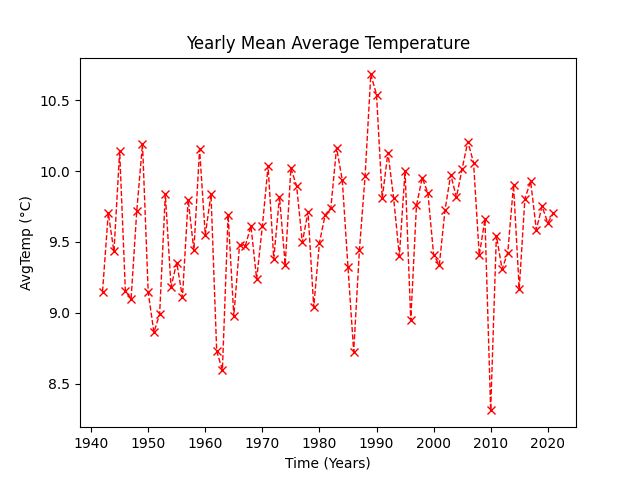
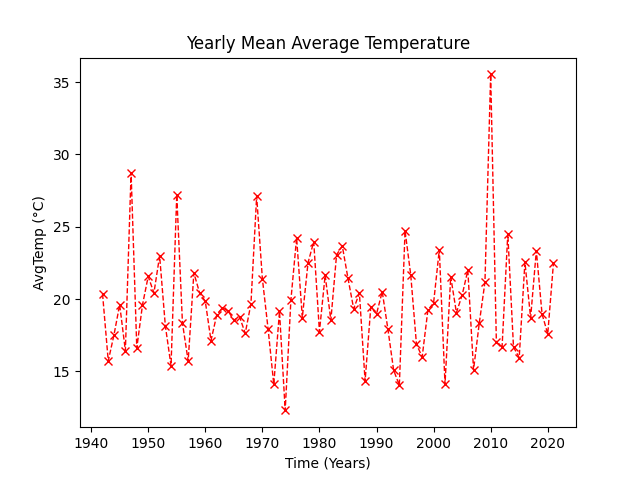
Read Time Series

diff --git a/DublinAirportAvgTempLinearAnalysis.py b/DublinAirportAvgTempLinearAnalysis.py
@@ -6,6 +6,7 @@ import pmdarima as pm
 import datetime as dt
 import pandas as pd
 import numpy as np
+import statistics
 import warnings
 import csv
 import os
@@ -26,121 +27,173 @@ savepath = 'data/'
 data = data.drop("Unnamed: 0", axis=1)
 print(data)
 dates = data.date
-print(dates)
 date_axis = [d.to_pydatetime() for d in dates]
 
 # Define Average Temperature Time Series.
 x = data.AvgTemp.values
-x_df = pd.DataFrame({data.AvgTemp.name: x})
-
-# Plot Average Temperature.
-lf.plot_timeseries(x, 'AvgTemp (°C)', 'Average Temperature', 'data/', date_axis)
-plt.show()
-
-# Average Temperature Histogram.
-lf.plot_histogram(x, 'Frequency', 'Average Temperature Histogram', 'data/')
-plt.show()
-
-# Plot Zoomed Average Temperature.
-lf.plot_timeseries(x, 'AvgTemp (°C)', 'Average Temperature (1998-2014)', 'data/', date_axis, zoomx=True)
-plt.show()
-
-# Plot Yearly Mean Average Temperature.
-x_year = []
-years = 80
-days = 365
-for year in range(0, years):
-    k = 0
-    for day in range(1, days + 1):
-        k = k + x[year * days + day]
-    x_year.append(k/days)
+# x_df = pd.DataFrame({data.AvgTemp.name: x})
+#
+# # Plot Average Temperature.
+# lf.plot_timeseries(x, 'AvgTemp (°C)', 'Average Temperature', 'data/', date_axis)
+# plt.show()
+#
+# # Average Temperature Histogram.
+# lf.plot_histogram(x, 'Frequency', 'Average Temperature Histogram', 'data/')
+# plt.show()
+#
+# # Plot Zoomed Average Temperature.
+# lf.plot_timeseries(x, 'AvgTemp (°C)', 'Average Temperature (1998-2014)', 'data/', date_axis, zoomx=True)
+# plt.show()
+#
+# # Plot Yearly Mean Average Temperature.
+# x_year = []
+# years = 80
+# days = 365
+# for year in range(0, years):
+#     k = 0
+#     for day in range(1, days + 1):
+#         k = k + x[year * days + day]
+#     x_year.append(k/days)
 dates_year = range(1942, 2022)
-plt.plot(dates_year, x_year, color='red', marker='x', linestyle='--', linewidth=1)
-plt.xlabel('Time (Years)')
-plt.ylabel('AvgTemp (°C)')
-title = 'Yearly Mean Average Temperature'
-plt.title(title, x=0.5, y=1.0)
-plt.savefig(f'{savepath}/{title}.png')
-plt.show()
-
-# Average Temperature Autocorrelation.
-plot_acf(x, zero=False)
-title = 'Autocorrelation'
-plt.title(title, x=0.5, y=1.0)
-plt.savefig(f'{savepath}/{title}.png')
-plt.show()
-
-# Remove Trend.
-# Polynomial Fit.
-p = 40
-pol = lf.polynomial_fit(x, p=p)
-
-# Linear Breakpoint Fit.
-p1 = 1
-pol1 = []
-breakpoints = 160
-for i in range(0, 80 * 12 * 30, 180):
-    pol1[i:i + 180] = lf.polynomial_fit(x[i:i + 180], p=p1)
-
-# Plot Polynomial and Breakpoint Fit.
-plt.plot(pol)
-plt.plot(pol1)
-plt.plot(x, alpha=0.5)
-plt.xlim(15000, 18000)
-plt.legend([f'Polynomial ({p})', f'Breakpoint ({breakpoints})', 'Original'])
-title = f'Polynomial ({p}) and Breakpoint Fit ({breakpoints})'
-plt.title(title, x=0.5, y=1.0)
-plt.savefig(f'{savepath}/{title}.png')
-plt.show()
-
-# Plot Polynomial and Linear Breakpoint Detrends.
-plt.plot(x-pol, alpha=0.5)
-plt.plot(x[0:28800]-pol1, alpha=0.5)
-plt.legend([f'Polynomial ({p}) Detrended', f'Breakpoint ({breakpoints}) Detrended'])
-title = f'Polynomial ({p}) vs Breakpoint ({breakpoints}) Detrended'
-plt.title(title, x=0.5, y=1.0)
-plt.xlim(15000, 18000)
-plt.savefig(f'{savepath}/{title}.png')
-plt.show()
-
-# Moving Average Filter.
-window = 105
-ma = lf.rolling_window(x=x, window=window)
-plt.plot(ma, linestyle='--')
-plt.plot(x, alpha=0.5)
-plt.legend([f'MA ({window})', 'Original'])
-title = f'Moving Average ({window})'
-plt.title(title, x=0.5, y=1.0)
-plt.xlim(15000, 18000)
-plt.savefig(f'{savepath}/{title}.png')
-plt.show()
+# plt.plot(dates_year, x_year, color='red', marker='x', linestyle='--', linewidth=1)
+# plt.xlabel('Time (Years)')
+# plt.ylabel('AvgTemp (°C)')
+# title = 'Yearly Mean Average Temperature'
+# plt.title(title, x=0.5, y=1.0)
+# plt.savefig(f'{savepath}/{title}.png')
+# plt.show()
+#
+# # Average Temperature Autocorrelation.
+# plot_acf(x, zero=False)
+# title = 'Autocorrelation'
+# plt.title(title, x=0.5, y=1.0)
+# plt.savefig(f'{savepath}/{title}.png')
+# plt.show()
+#
+# # Remove Trend.
+# # Polynomial Fit.
+# p = 40
+# pol = lf.polynomial_fit(x, p=p)
+#
+# # Linear Breakpoint Fit.
+# p1 = 1
+# pol1 = []
+# breakpoints = 160
+# for i in range(0, 80 * 12 * 30, 180):
+#     pol1[i:i + 180] = lf.polynomial_fit(x[i:i + 180], p=p1)
+#
+# # Plot Polynomial and Breakpoint Fit.
+# plt.plot(pol)
+# plt.plot(pol1)
+# plt.plot(x, alpha=0.5)
+# plt.xlim(15000, 18000)
+# plt.legend([f'Polynomial ({p})', f'Breakpoint ({breakpoints})', 'Original'])
+# title = f'Polynomial ({p}) and Breakpoint Fit ({breakpoints})'
+# plt.title(title, x=0.5, y=1.0)
+# plt.savefig(f'{savepath}/{title}.png')
+# plt.show()
+#
+# # Plot Polynomial and Linear Breakpoint Detrends.
+# plt.plot(x-pol, alpha=0.5)
+# plt.plot(x[0:28800]-pol1, alpha=0.5)
+# plt.legend([f'Polynomial ({p}) Detrended', f'Breakpoint ({breakpoints}) Detrended'])
+# title = f'Polynomial ({p}) vs Breakpoint ({breakpoints}) Detrended'
+# plt.title(title, x=0.5, y=1.0)
+# plt.xlim(15000, 18000)
+# plt.savefig(f'{savepath}/{title}.png')
+# plt.show()
+#
+# # Moving Average Filter.
+# window = 105
+# ma = lf.rolling_window(x=x, window=window)
+# plt.plot(ma, linestyle='--')
+# plt.plot(x, alpha=0.5)
+# plt.legend([f'MA ({window})', 'Original'])
+# title = f'Moving Average ({window})'
+# plt.title(title, x=0.5, y=1.0)
+# plt.xlim(15000, 18000)
+# plt.savefig(f'{savepath}/{title}.png')
+# plt.show()
 
 # Differences of Logarithms (Increment each zero with 0.001).
 logx = []
 for i in range(0, len(x)):
     if x[i] == 0:
-        x[i] = x[i] + 0.001
+        x[i] = x[i] + 0.1
     if x[i] < 0:
         logx.append(-np.log(abs(x[i])))
     else:
         logx.append(np.log(x[i]))
 fd = np.diff(logx)
 
-# MA vs Differences of Logarithms.
-window = 105
-ma = lf.rolling_window(x, window)
-plt.plot(x-ma, alpha=0.5)
-plt.plot(fd, alpha=0.5)
-plt.xlim(15000, 16000)
-title = f'Differences of Logarithms vs MA ({window})'
+# # MA vs Differences of Logarithms.
+# window = 105
+# ma = lf.rolling_window(x, window)
+# plt.plot(x-ma, alpha=0.5)
+# plt.plot(fd, alpha=0.5)
+# plt.xlim(15000, 16000)
+# title = f'Differences of Logarithms vs MA ({window})'
+# plt.title(title, x=0.5, y=1.0)
+# plt.legend([f'MA ({window}) Detrended', 'Differences of Logarithms Detrended'])
+# plt.savefig(f'{savepath}/{title}.png')
+# plt.show()
+#
+# # Autocorrelation after Detrending with Differences of Logarithms.
+# acvf = lf.get_acf(fd, lags=30)
+# title = 'Autocorrelation after Detrending with Differences of Logarithms'
+# plt.title(title, x=0.5, y=1.0)
+# plt.savefig(f'{savepath}/{title}.png')
+# plt.show()
+#
+# # Print Yearly Mean Average Temperature of detrended and not time series.
+# xfd_year = []
+# years = 80
+# days = 365
+# for year in range(0, years):
+#     k = 0
+#     for day in range(1, days + 1):
+#         k = k + fd[year * days + day]
+#     xfd_year.append(k/days)
+# print("---------------------------------------------------------------------------------------------------------------")
+# print("Yearly Mean of Average Temperature Time Series:\n")
+# for i in range(0, len(x_year), 9):
+#     print(x_year[i])
+# print("\nYearly Mean of Detrended Average Temperature Time Series:\n")
+# for i in range(0, len(x_year), 9):
+#     print(xfd_year[i])
+
+# Stabilize Variance.
+# Plot Yearly Variance of Average Temperature.
+split = np.array_split(x, 80)
+varis = []
+for i in range(0, len(split)):
+    varis.append(statistics.variance(split[i]))
+plt.plot(dates_year, varis, color='red', marker='x', linestyle='--', linewidth=1)
+plt.xlabel('Time (Years)')
+plt.ylabel('AvgTemp (°C)')
+title = 'Yearly Variance of Average Temperature'
 plt.title(title, x=0.5, y=1.0)
-plt.legend([f'MA ({window}) Detrended', 'Differences of Logarithms Detrended'])
 plt.savefig(f'{savepath}/{title}.png')
 plt.show()
 
-# Autocorrelation after Detrending with Differences of Logarithms.
-plot_acf(fd, zero=False)
-title = 'Autocorrelation after Detrending with Differences of Logarithms'
+# Print Yearly Variance of Detrended and not Average Temperature.
+split1 = np.array_split(fd, 80)
+varis1 = []
+for i in range(0, len(split1)):
+    varis1.append(statistics.variance(split1[i]))
+print("---------------------------------------------------------------------------------------------------------------")
+print("Yearly Variance of Average Temperature Time Series:\n")
+for i in range(7, len(varis), 9):
+    print(varis[i])
+print("\nYearly Variance of Detrended Average Temperature Time Series:\n")
+for i in range(7, len(varis1), 9):
+    print(varis1[i])
+
+# Remove Seasonality.
+# Plot Differences of Logarithms.
+plt.plot(fd)
+title = f'Differences of Logarithms'
 plt.title(title, x=0.5, y=1.0)
+plt.legend(['Differences of Logarithms'])
 plt.savefig(f'{savepath}/{title}.png')
 plt.show()
